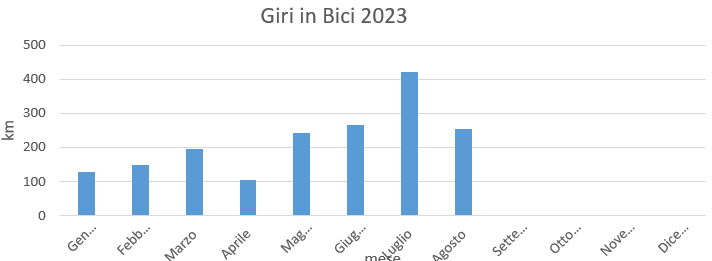
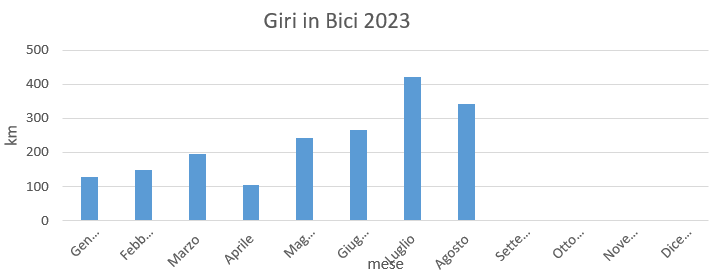
Add files via upload

diff --git a/Statistiche/Statistiche2023.html b/Statistiche/Statistiche2023.html
@@ -47,49 +47,49 @@
         <tr>
             <td>Gennaio</td>
             <td>127</td>
-            <td>7,23%</td>
+            <td>6,89%</td>
         </tr>
 
         <tr>
             <td>Febbraio</td>
             <td>148</td>
-            <td>8,43%</td>
+            <td>8,03%</td>
         </tr>
 
         <tr>
             <td>Marzo</td>
             <td>194</td>
-            <td>11,05%</td>
+            <td>10,52%</td>
         </tr>
 
         <tr>
             <td>Aprile</td>
             <td>103</td>
-            <td>5,87%</td>
+            <td>5,59%</td>
         </tr>
 
         <tr>
             <td>Maggio</td>
             <td>242</td>
-            <td>13,78%</td>
+            <td>13,12%</td>
         </tr>
 
         <tr>
             <td>Giugno</td>
             <td>265</td>
-            <td>15,09%</td>
+            <td>14,37%</td>
         </tr>
 
         <tr>
             <td>Luglio</td>
             <td>422</td>
-            <td>24,03%</td>
+            <td>22,89%</td>
         </tr>
 
         <tr>
             <td>Agosto</td>
-            <td>255</td>
-            <td>14,52%</td>
+            <td>343</td>
+            <td>18,60%</td>
         </tr>
 
     </table>
@@ -100,10 +100,10 @@
 
     <br>
     <div class="colore">
-        <p>totale km 1.756
+        <p>totale km 1.844
             <img src="../Icone/traguardo.png">
         </p>
-        <p>km medi percorsi 60,55 km </p>
+        <p>km medi percorsi 61,47 km </p>
     </div>
     <br>
 

diff --git a/Statistiche.html b/Statistiche.html
@@ -83,7 +83,7 @@
             </td>
 
             <td>
-                23,10%
+                22,90%
             </td>
 
         </tr>
@@ -99,7 +99,7 @@
             </td>
 
             <td>
-                24,60%
+                24,40%
             </td>
         </tr>
 
@@ -113,7 +113,7 @@
             </td>
 
             <td>
-                35,80%
+                35,50%
             </td>
 
         </tr>
@@ -124,11 +124,11 @@
             </td>
 
             <td>
-                1.756
+                1.844
             </td>
 
             <td>
-                16,50%
+                17,20%
             </td>
 
         </tr>
@@ -143,11 +143,11 @@
 
     <div class="colore">
         <p>
-            totale km fatti 10.634
+            totale km fatti 10.722
             <img src="Icone/traguardo.png">
         </p>
 
-        <p>km medi percorsi 69,50 km </p>
+        <p>km medi percorsi 69,62 km </p>
 
     </div>
 

diff --git a/Estate/Estate2023.html b/Estate/Estate2023.html
@@ -156,15 +156,25 @@
             <td>km</td>
         </tr>
 
+        <tr>
+            <td>11 agosto</td>
+            <td>12</td>
+            <td><a
+                    href="https://www.komoot.com/it-it/tour/1254069802?ref=wtd">
+                    Susans + Colloredo di Monte Albano + Moruzzo e Santa Margherita del Gruagno</a></td>
+            <td>88</td>
+            <td>km</td>
+        </tr>
+
     </table>
 
 
     <br>
     <div class="colore">
-        <p> totale km 739
+        <p> totale km 827
             <img src="../Icone/traguardo.png">
         </p>
-        <p>km medi percorsi 67,18
+        <p>km medi percorsi 68,92
         </p>
     </div>
 </body>

diff --git a/Giri.html b/Giri.html
@@ -242,11 +242,11 @@
     <br>
     <div class="colore">
         <p>
-            totale km fatti 10.634
+            totale km fatti 10.722
             <img src="Icone/traguardo.png">
         </p>
 
-        <p>km medi percorsi 69,50 km </p>
+        <p>km medi percorsi 69,62 km </p>
 
     </div>
 

diff --git a/Estate.html b/Estate.html
@@ -104,7 +104,7 @@
                 </td>
     
                 <td>
-                    739
+                    827
                 </td>
             </tr>
 
